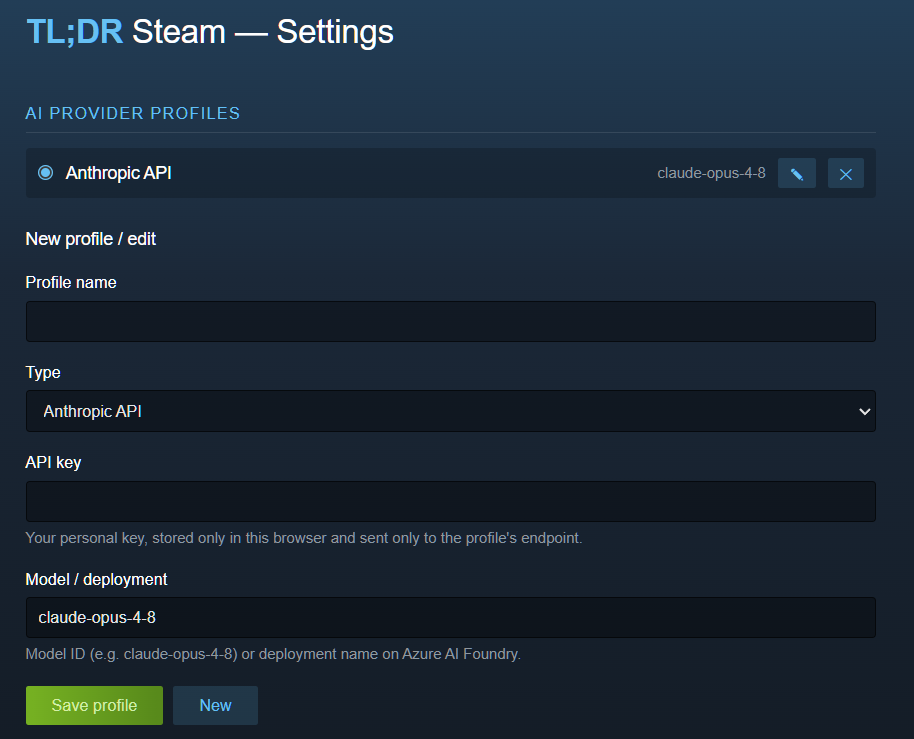
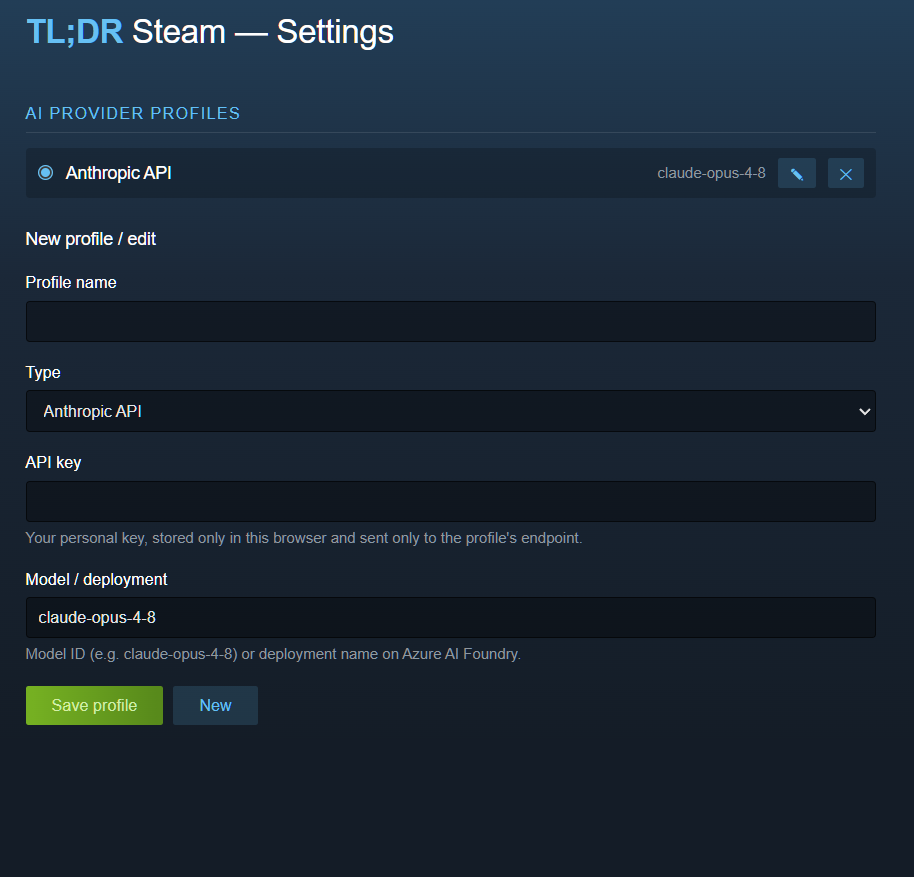
Options tooltips for review-selection settings; equalize README screenshots
- Every selection setting (mode, review count, date range, min length, and
  the four scoring weights) now has a localized hover tooltip explaining
  what it does; labels get a dotted underline + help cursor for
  discoverability
- README: the shorter options screenshot is padded with its background
  color so the two columns render at the same height

diff --git a/src/options/options.html b/src/options/options.html
@@ -81,6 +81,7 @@
       .check { display: flex; align-items: center; gap: 0.5rem; margin-top: 1rem; }
       .check input { width: auto; margin: 0; accent-color: #66c0f4; }
       .buttons { display: flex; gap: 0.5rem; flex-wrap: wrap; align-items: center; }
+      .has-tip { cursor: help; text-decoration: underline dotted rgba(102, 192, 244, 0.6); text-underline-offset: 3px; }
     </style>
   </head>
   <body>
@@ -127,7 +128,7 @@
 
     <div class="row">
       <div>
-        <label for="mode" data-i18n="optionsMode"></label>
+        <label for="mode" data-i18n="optionsMode" data-i18n-title="tipMode" class="has-tip"></label>
         <select id="mode">
           <option value="hybrid">Hybrid</option>
           <option value="recent_scored">Recent + scoring</option>
@@ -135,18 +136,18 @@
         </select>
       </div>
       <div>
-        <label for="numReviews" data-i18n="optionsNumReviews"></label>
+        <label for="numReviews" data-i18n="optionsNumReviews" data-i18n-title="tipNumReviews" class="has-tip"></label>
         <input type="number" id="numReviews" min="5" max="200" />
       </div>
     </div>
 
     <div class="row">
       <div>
-        <label for="dayRange" data-i18n="optionsDayRange"></label>
+        <label for="dayRange" data-i18n="optionsDayRange" data-i18n-title="tipDayRange" class="has-tip"></label>
         <input type="number" id="dayRange" min="1" max="365" />
       </div>
       <div>
-        <label for="minChars" data-i18n="optionsMinChars"></label>
+        <label for="minChars" data-i18n="optionsMinChars" data-i18n-title="tipMinChars" class="has-tip"></label>
         <input type="number" id="minChars" min="0" max="500" />
       </div>
     </div>
@@ -154,19 +155,19 @@
     <h3 data-i18n="optionsWeightsTitle"></h3>
     <div class="grid4">
       <div>
-        <label for="wHelpfulness" data-i18n="optionsWeightHelpfulness"></label>
+        <label for="wHelpfulness" data-i18n="optionsWeightHelpfulness" data-i18n-title="tipWeightHelpfulness" class="has-tip"></label>
         <input type="number" id="wHelpfulness" min="0" max="1" step="0.05" />
       </div>
       <div>
-        <label for="wPlaytime" data-i18n="optionsWeightPlaytime"></label>
+        <label for="wPlaytime" data-i18n="optionsWeightPlaytime" data-i18n-title="tipWeightPlaytime" class="has-tip"></label>
         <input type="number" id="wPlaytime" min="0" max="1" step="0.05" />
       </div>
       <div>
-        <label for="wSubstance" data-i18n="optionsWeightSubstance"></label>
+        <label for="wSubstance" data-i18n="optionsWeightSubstance" data-i18n-title="tipWeightSubstance" class="has-tip"></label>
         <input type="number" id="wSubstance" min="0" max="1" step="0.05" />
       </div>
       <div>
-        <label for="wFreshness" data-i18n="optionsWeightFreshness"></label>
+        <label for="wFreshness" data-i18n="optionsWeightFreshness" data-i18n-title="tipWeightFreshness" class="has-tip"></label>
         <input type="number" id="wFreshness" min="0" max="1" step="0.05" />
       </div>
     </div>

diff --git a/src/options/options.ts b/src/options/options.ts
@@ -51,6 +51,11 @@ function applyTranslations(): void {
     const key = el.dataset["i18n"];
     if (key) el.textContent = t(key);
   }
+  // Tooltips explaining what each setting does
+  for (const el of document.querySelectorAll<HTMLElement>("[data-i18n-title]")) {
+    const key = el.dataset["i18nTitle"];
+    if (key) el.title = t(key);
+  }
 }
 
 const $ = <T extends HTMLElement>(id: string) => document.getElementById(id) as T;